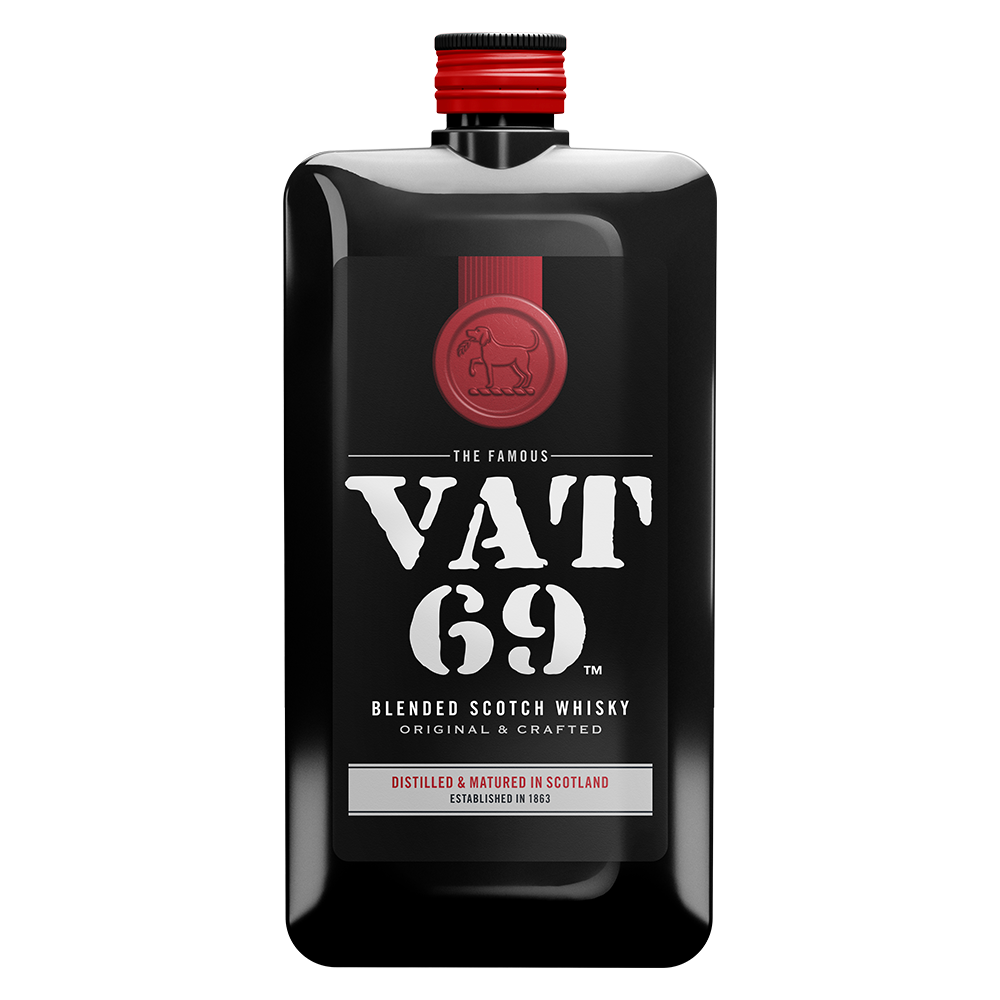
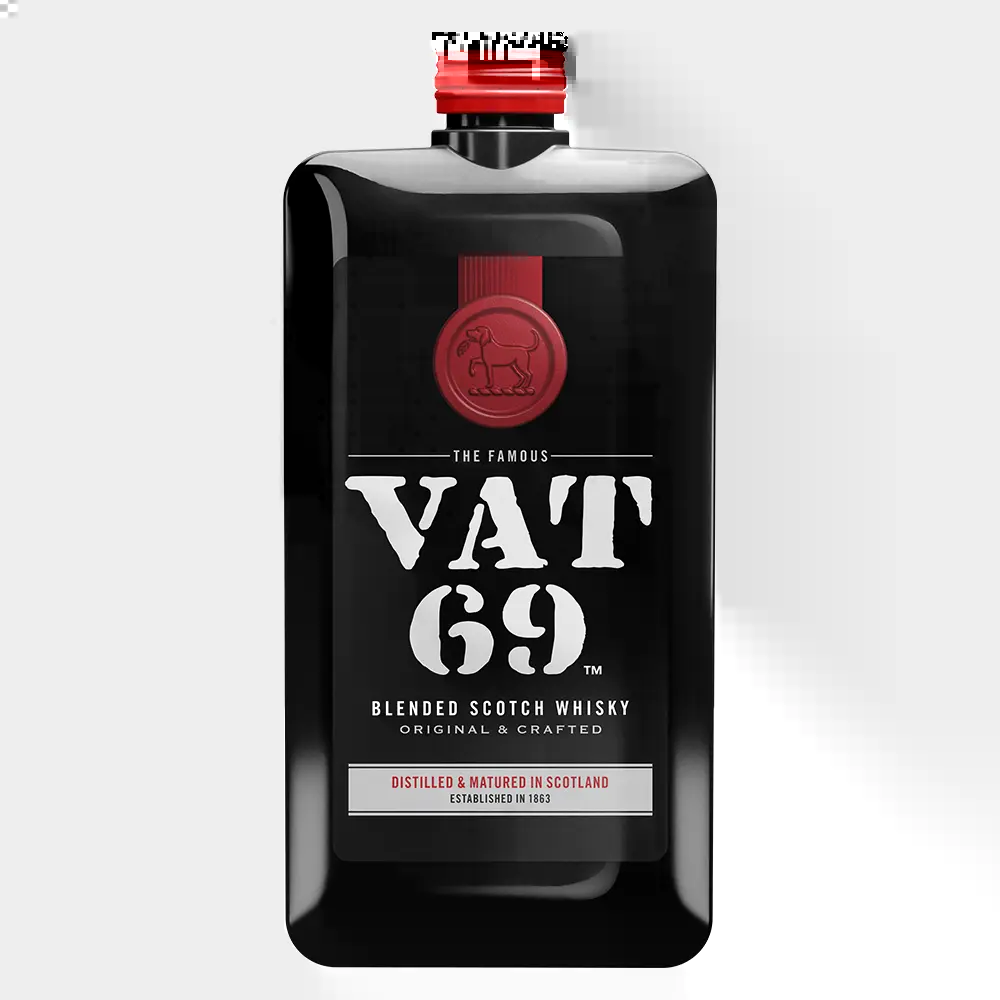
fotos Webp

diff --git a/main.js b/main.js
@@ -15,7 +15,7 @@ const productos = [
     {
         id: "Jhon Morris Negro 1L",
         titulo: "Jhon Morris Negro 1L",
-        imagen: "./Imagenes/Wisky/JM1L.png",
+        imagen: "./Imagenes/Wisky/JM1L.webp",
         categoria: {
             nombre: "Wisky",
             id: "wisky"
@@ -348,7 +348,7 @@ const productos = [
     {
         id: "Norteño 750 ml",
         titulo: "Norteño 750 ml",
-        imagen: "./imagenes/Aguardiente/Norteño.jpg",
+        imagen: "./imagenes/Aguardiente/Norteño.webp",
         categoria: {
             nombre: "Aguardiente",
             id: "aguardiente"
@@ -625,7 +625,7 @@ const productos = [
     {
         id: "GATO NEGRO 750ML",
         titulo: "GATO NEGRO 750ML",
-        imagen: "./imagenes/Vinos/gato-negro.jpg",
+        imagen: "./imagenes/Vinos/gato-negro.webp",
         categoria: {
             nombre: "Vinos",
             id: "vinos"
@@ -681,7 +681,7 @@ const productos = [
     {
         id: "Ron Ronero 750ml",
         titulo: "Ron Ronero 750ml",
-        imagen: "./imagenes/Ron/RonRonero.jpg",
+        imagen: "./imagenes/Ron/RonRonero.webp",
         categoria: {
             nombre: "Ron",
             id: "ron"
@@ -725,7 +725,7 @@ const productos = [
     {
         id: "ABUELO 375ML",
         titulo: "ABUELO 375ML",
-        imagen: "./imagenes/Ron/ron-abuelo-anejo-375ml.jpg",
+        imagen: "./imagenes/Ron/ron-abuelo-anejo-375ml.webp",
         categoria: {
             nombre: "Ron",
             id: "ron"
@@ -791,7 +791,7 @@ const productos = [
     {
         id: "ESTELAR ORO 375ML",
         titulo: "ESTELAR ORO 375ML",
-        imagen: "./imagenes/Ron/estelar-375ml.jpg",
+        imagen: "./imagenes/Ron/estelar-375ml.webp",
         categoria: {
             nombre: "Ron",
             id: "ron"
@@ -802,7 +802,7 @@ const productos = [
     {
         id: "GENIO TAPA NEGRA 750ML",
         titulo: "GENIO TAPA NEGRA 750ML",
-        imagen: "./imagenes/Ron/genio-tapa-negra-750ml.png",
+        imagen: "./imagenes/Ron/genio-tapa-negra-750ml.webp",
         categoria: {
             nombre: "Ron",
             id: "ron"
@@ -846,7 +846,7 @@ const productos = [
     {
         id: "VIEJO DE CALDAS 750ML",
         titulo: "VIEJO DE CALDAS 750ML",
-        imagen: "./imagenes/Ron/ron-viejo-de-caldas-750ml.jpg",
+        imagen: "./imagenes/Ron/ron-viejo-de-caldas-750ml.webp",
         categoria: {
             nombre: "Ron",
             id: "ron"
@@ -892,7 +892,7 @@ const productos = [
     {
         id: "Green mate 750ml",
         titulo: "Green mate 750ml",
-        imagen: "./imagenes/Licor de Hiervas/GreenMate.jpg",
+        imagen: "./imagenes/Licor de Hiervas/GreenMate.webp",
         categoria: {
             nombre: "Licor de hiervas",
             id: "licor-de-hiervas"
@@ -937,7 +937,7 @@ const productos = [
     {
         id: "TEQUILA EL CHARRO 750ML",
         titulo: "TEQUILA EL CHARRO 750ML",
-        imagen: "./imagenes/Tequila/tequila-charro.jpg",
+        imagen: "./imagenes/Tequila/tequila-charro.webp",
         categoria: {
             nombre: "tequila",
             id: "tequila"
@@ -1026,7 +1026,7 @@ const productos = [
     {
         id: "SWITCH",
         titulo: "SWITCH",
-        imagen: "./imagenes/Vodka/vodka-switch.jpg",
+        imagen: "./imagenes/Vodka/vodka-switch.webp",
         categoria: {
             nombre: "vodka",
             id: "vodka"
@@ -1037,7 +1037,7 @@ const productos = [
     {
         id: "VODKA 40 750ML",
         titulo: "VODKA 40 750ML",
-        imagen: "./imagenes/Vodka/vodk-40.jpg",
+        imagen: "./imagenes/Vodka/vodk-40.webp",
         categoria: {
             nombre: "vodka",
             id: "vodka"
@@ -1106,7 +1106,7 @@ const productos = [
     {
         id: "RON ZHUMIR",
         titulo: "RON ZHUMIR",
-        imagen: "./imagenes/Zhumir/Ron-Zhumir.jpg",
+        imagen: "./imagenes/Zhumir/Ron-Zhumir.webp",
         categoria: {
             nombre: "zhumir",
             id: "zhumir"
@@ -1317,7 +1317,7 @@ const productos = [
     {
         id: "PANCHITOS",
         titulo: "PANCHITOS",
-        imagen: "./imagenes/Confitería/Panchitos.jpg",
+        imagen: "./imagenes/Confitería/Panchitos.web",
         categoria: {
             nombre: "otros",
             id: "otros"
@@ -1327,7 +1327,7 @@ const productos = [
     {
         id: "PAPAS SIN MARCA",
         titulo: "PPAPAS SIN MARCA",
-        imagen: "./imagenes/Confitería/papitas-sin-marca.jpg",
+        imagen: "./imagenes/Confitería/papitas-sin-marca.webp",
         categoria: {
             nombre: "otros",
             id: "otros"
@@ -1337,7 +1337,7 @@ const productos = [
         {
         id: "TRIDENT X3 SURTIDO",
         titulo: "TRIDENT X3 SURTIDO",
-        imagen: "./imagenes/Confitería/Trident-Menta-X3.jpg",
+        imagen: "./imagenes/Confitería/Trident-Menta-X3.webp",
         categoria: {
             nombre: "otros",
             id: "otros"
@@ -1377,7 +1377,7 @@ const productos = [
     {
         id: "AGUA TONICA",
         titulo: "AGUA TONICA",
-        imagen: "./imagenes/Otros/AGUA-TONICA-1.5.png",
+        imagen: "./imagenes/Otros/AGUA-TONICA-1.5.webp",
         categoria: {
             nombre: "otros",
             id: "otros"
@@ -1407,7 +1407,7 @@ const productos = [
     {
         id: "FUZE TEA 1LT",
         titulo: "FUZE TEA 1LT",
-        imagen: "./imagenes/Otros/fuze-tea-1L.jpg",
+        imagen: "./imagenes/Otros/fuze-tea-1L.webp",
         categoria: {
             nombre: "otros",
             id: "otros"

diff --git a/Index.html b/Index.html
@@ -33,7 +33,7 @@
     </header>
     <section class="fotos">
         <!-- Aquí puedes agregar tus imágenes -->
-        <img src="./Imagenes/La Huequita Quiteña.png" alt="La Huequita Quiteña JaggerMeister - Licorería al norte de Quito con entregas a domicilio las 24 horas La Huequita Quiteña" style="width: 100%">
+        <img src="./Imagenes/La Huequita Quiteña.webp" alt="La Huequita Quiteña JaggerMeister - Licorería al norte de Quito con entregas a domicilio las 24 horas La Huequita Quiteña" style="width: 100%">
     </section>
     <div class="hamburguesa-icono">
         <div class="barra"></div>
@@ -98,7 +98,7 @@
     </div>
     <div class="instagram-div">
         <a href="https://www.instagram.com/lahuequita_quitena/" target="_blank" class="instagram-btn">       
-            <img class="instagram-icon" src="./Imagenes/instagram-icon-transparent-vector-12.jpg" alt="WhatsApp">
+            <img class="instagram-icon" src="./Imagenes/instagram-icon-transparent-vector-12.webp" alt="WhatsApp">
         </a>
     </div>
     <div class="whatsapp-div">
